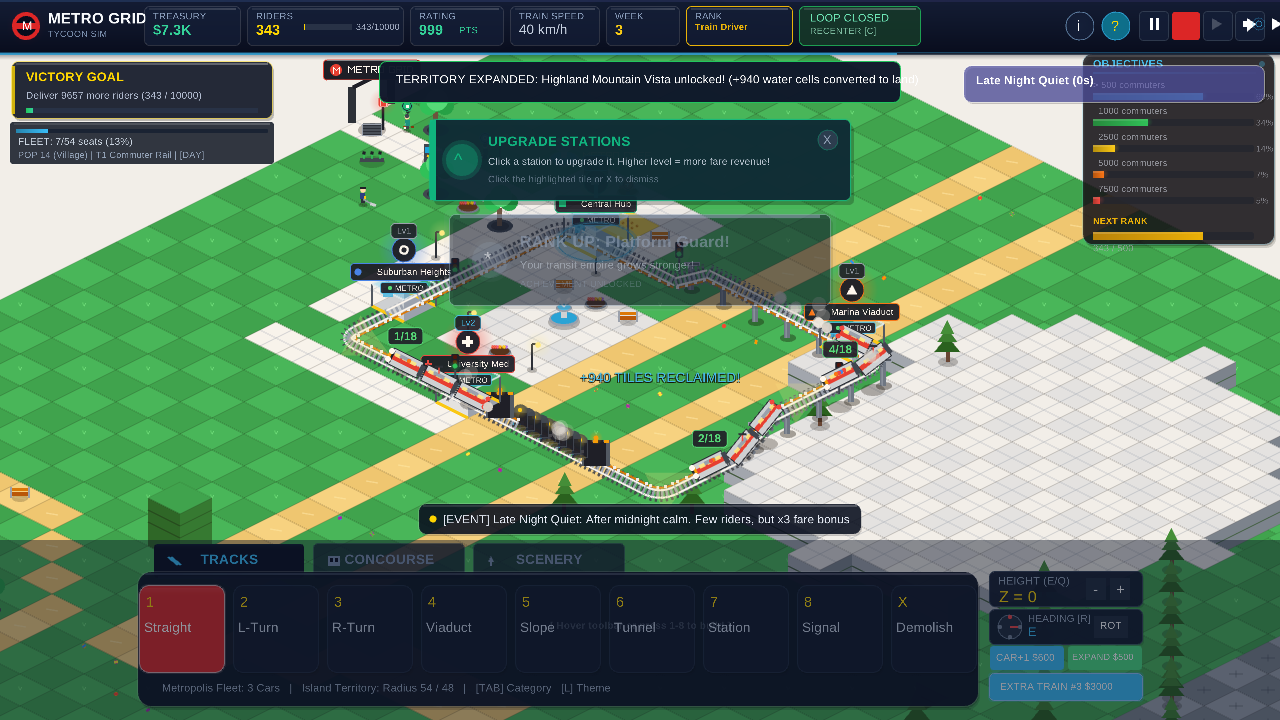
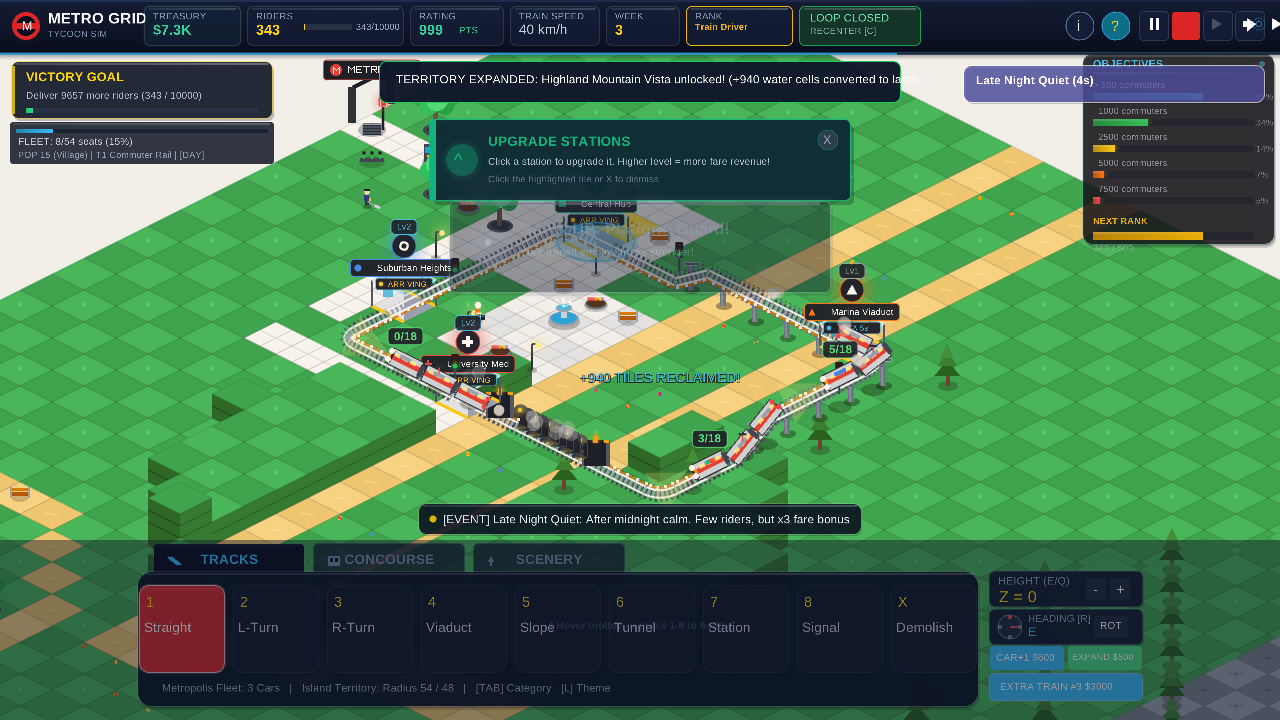
Loop 78: Dynamic suspended PIDS boards with live train ETA and arrival status countdown

diff --git a/raylib/src/track.cpp b/raylib/src/track.cpp
@@ -520,6 +520,29 @@ bool TrackSystem::UpgradeStation(int gx, int gy, int& outNewLevel) {
     return false;
 }
 
+void TrackSystem::UpdateStationPIDS(float leadTrainDist, const std::vector<float>& extraTrainDists, float trainSpeed) {
+    if (totalLength <= 0.001f) return;
+    float spd = std::max(2.2f, trainSpeed * 0.08f); // circuit units per second
+
+    for (auto& p : pieces) {
+        if (p.type != TRACK_STATION) continue;
+
+        // Find minimum distance from any operating train
+        float minGap = p.circuitDist - leadTrainDist;
+        while (minGap < 0.0f) minGap += totalLength;
+        minGap = fmodf(minGap, totalLength);
+
+        for (float ed : extraTrainDists) {
+            float d = p.circuitDist - ed;
+            while (d < 0.0f) d += totalLength;
+            d = fmodf(d, totalLength);
+            if (d < minGap) minGap = d;
+        }
+
+        p.pidsEta = minGap / spd;
+    }
+}
+
 bool TrackSystem::GetNextStationAhead(float currentDist, float& outDistToStation, StationInfo& outStation) const {
     std::vector<StationInfo> stations = GetAllStations();
     if (stations.empty() || totalLength <= 0.001f) return false;
@@ -714,12 +737,43 @@ void TrackSystem::DrawPlatformCanopy(const TrackNode& node, Vector2 camOffset, f
 
     // 5. Dynamic LED Passenger Information Display (PIDS)
     Vector2 pidsCenter = { (rTop.x + rBottom.x) * 0.5f, (rTop.y + rBottom.y) * 0.5f + 4.0f * zoom };
-    float pidsW = 46.0f * zoom;
-    float pidsH = 10.0f * zoom;
-    DrawRectangleRounded(Rectangle{pidsCenter.x - pidsW * 0.5f, pidsCenter.y - pidsH * 0.5f, pidsW, pidsH}, 0.3f, 4, Color{15, 23, 42, 235});
+    float pidsW = 56.0f * zoom;
+    float pidsH = 11.0f * zoom;
+
+    // Dual steel suspension drop-rods from canopy ceiling
+    Color rodCol = Color{71, 85, 105, 230};
+    DrawLineEx({pidsCenter.x - 18.0f * zoom, pidsCenter.y - pidsH * 0.5f}, {pidsCenter.x - 18.0f * zoom, pidsCenter.y - pidsH * 0.5f - 6.0f * zoom}, 1.2f * zoom, rodCol);
+    DrawLineEx({pidsCenter.x + 18.0f * zoom, pidsCenter.y - pidsH * 0.5f}, {pidsCenter.x + 18.0f * zoom, pidsCenter.y - pidsH * 0.5f - 6.0f * zoom}, 1.2f * zoom, rodCol);
+
+    // Matrix Chassis
+    DrawRectangleRounded(Rectangle{pidsCenter.x - pidsW * 0.5f, pidsCenter.y - pidsH * 0.5f, pidsW, pidsH}, 0.3f, 4, Color{15, 23, 42, 245});
     DrawRectangleRoundedLines(Rectangle{pidsCenter.x - pidsW * 0.5f, pidsCenter.y - pidsH * 0.5f, pidsW, pidsH}, 0.3f, 4, Color{56, 189, 248, 190});
-    DrawCircle((int)(pidsCenter.x - 14.0f * zoom), (int)pidsCenter.y, 2.0f * zoom, Color{74, 222, 128, 255});
-    DrawText("METRO", (int)(pidsCenter.x - 9.0f * zoom), (int)(pidsCenter.y - 3.5f * zoom), (int)(7.0f * zoom), Color{241, 245, 249, 240});
+
+    // Dynamic arrival status and text
+    const char* pidsText = "NEXT: 15s";
+    Color pidsCol = Color{56, 189, 248, 255};
+    Color ledCol = Color{56, 189, 248, 255};
+
+    if (node.pidsEta <= 1.0f) {
+        pidsText = "BOARDING";
+        pidsCol = Color{74, 222, 128, 255};
+        ledCol = Color{74, 222, 128, 255};
+    } else if (node.pidsEta <= 5.0f) {
+        pidsText = "ARRIVING";
+        pidsCol = Color{250, 204, 21, 255};
+        ledCol = Color{250, 204, 21, 255};
+    } else {
+        int sec = (int)node.pidsEta;
+        pidsText = TextFormat("ETA %ds", sec);
+    }
+
+    // Status LED
+    DrawCircle((int)(pidsCenter.x - pidsW * 0.5f + 5.0f * zoom), (int)pidsCenter.y, 2.0f * zoom, ledCol);
+    DrawCircleGradient(Vector2{pidsCenter.x - pidsW * 0.5f + 5.0f * zoom, pidsCenter.y}, 4.0f * zoom, Color{ledCol.r, ledCol.g, ledCol.b, 120}, Color{ledCol.r, ledCol.g, ledCol.b, 0});
+
+    // Matrix text
+    int tw = MeasureText(pidsText, (int)(7.5f * zoom));
+    DrawText(pidsText, (int)(pidsCenter.x - tw * 0.5f + 3.0f * zoom), (int)(pidsCenter.y - 3.8f * zoom), (int)(7.5f * zoom), pidsCol);
 
     // 6. Prominent Floating Holographic District Shape Roundel
     if (node.stationShape != SHAPE_NONE) {

diff --git a/raylib/src/track.hpp b/raylib/src/track.hpp
@@ -30,6 +30,7 @@ struct TrackNode {
     SignalAspect signalAspect = SIGNAL_GREEN;
     float signalTimer = 0.0f;
     float circuitDist = 0.0f;
+    float pidsEta = 25.0f; // Dynamic train arrival countdown in seconds
 
     // Precomputed sub-spline points within this single tile in 3D grid space
     std::vector<Vector3> splinePoints;
@@ -69,6 +70,7 @@ public:
     bool GetNextStationAhead(float currentDist, float& outDistToStation, StationInfo& outStation) const;
     void RecordStationAlight(int gx, int gy, int count, bool& outLeveledUp, int& outNewLevel);
     bool UpgradeStation(int gx, int gy, int& outNewLevel);
+    void UpdateStationPIDS(float leadTrainDist, const std::vector<float>& extraTrainDists, float trainSpeed);
 
     // Dynamic Wayside Signaling
     void UpdateSignals(float trainDistance);

diff --git a/raylib/src/game.cpp b/raylib/src/game.cpp
@@ -1855,6 +1855,11 @@ void Game::Update(float dt) {
         }
     }
 
+    // Dynamic Station PIDS Arrival Displays (Next train live ETA)
+    std::vector<float> extraDists;
+    for (const auto& et : extraTrains) extraDists.push_back(et.GetTrainDistance());
+    tracks.UpdateStationPIDS(train.GetTrainDistance(), extraDists, train.GetSpeedKmh());
+
     if (delivered > 0) {
         economy.totalDelivered += delivered;
         bestSessionRiders = std::max(bestSessionRiders, economy.totalDelivered);
